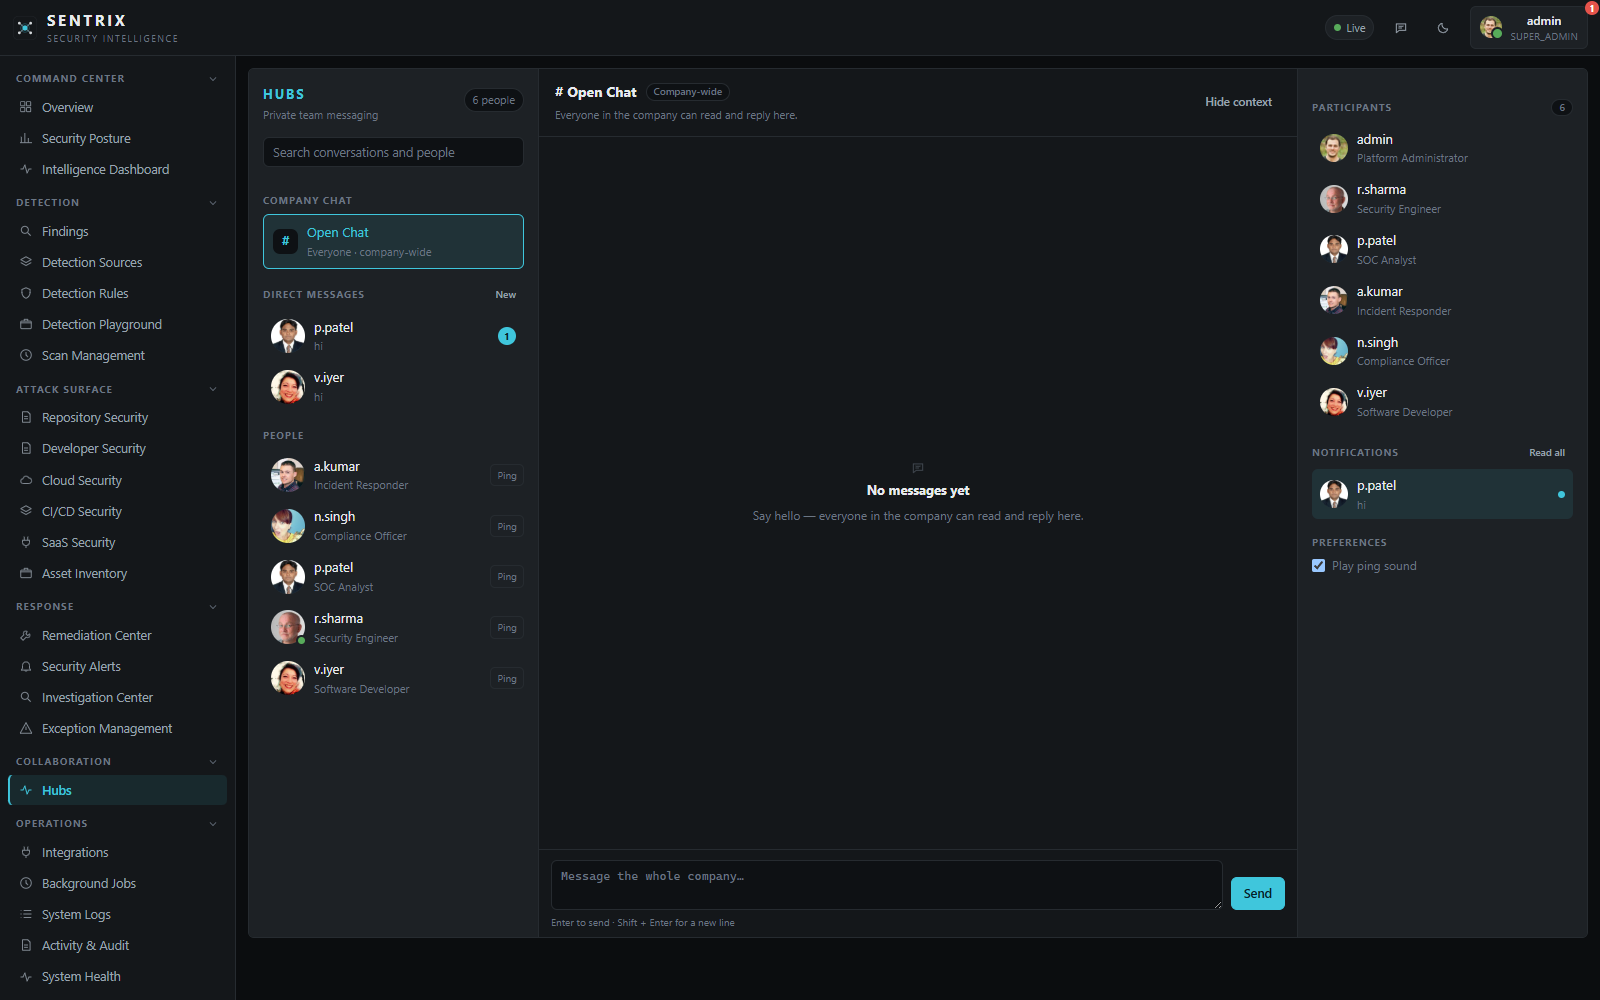
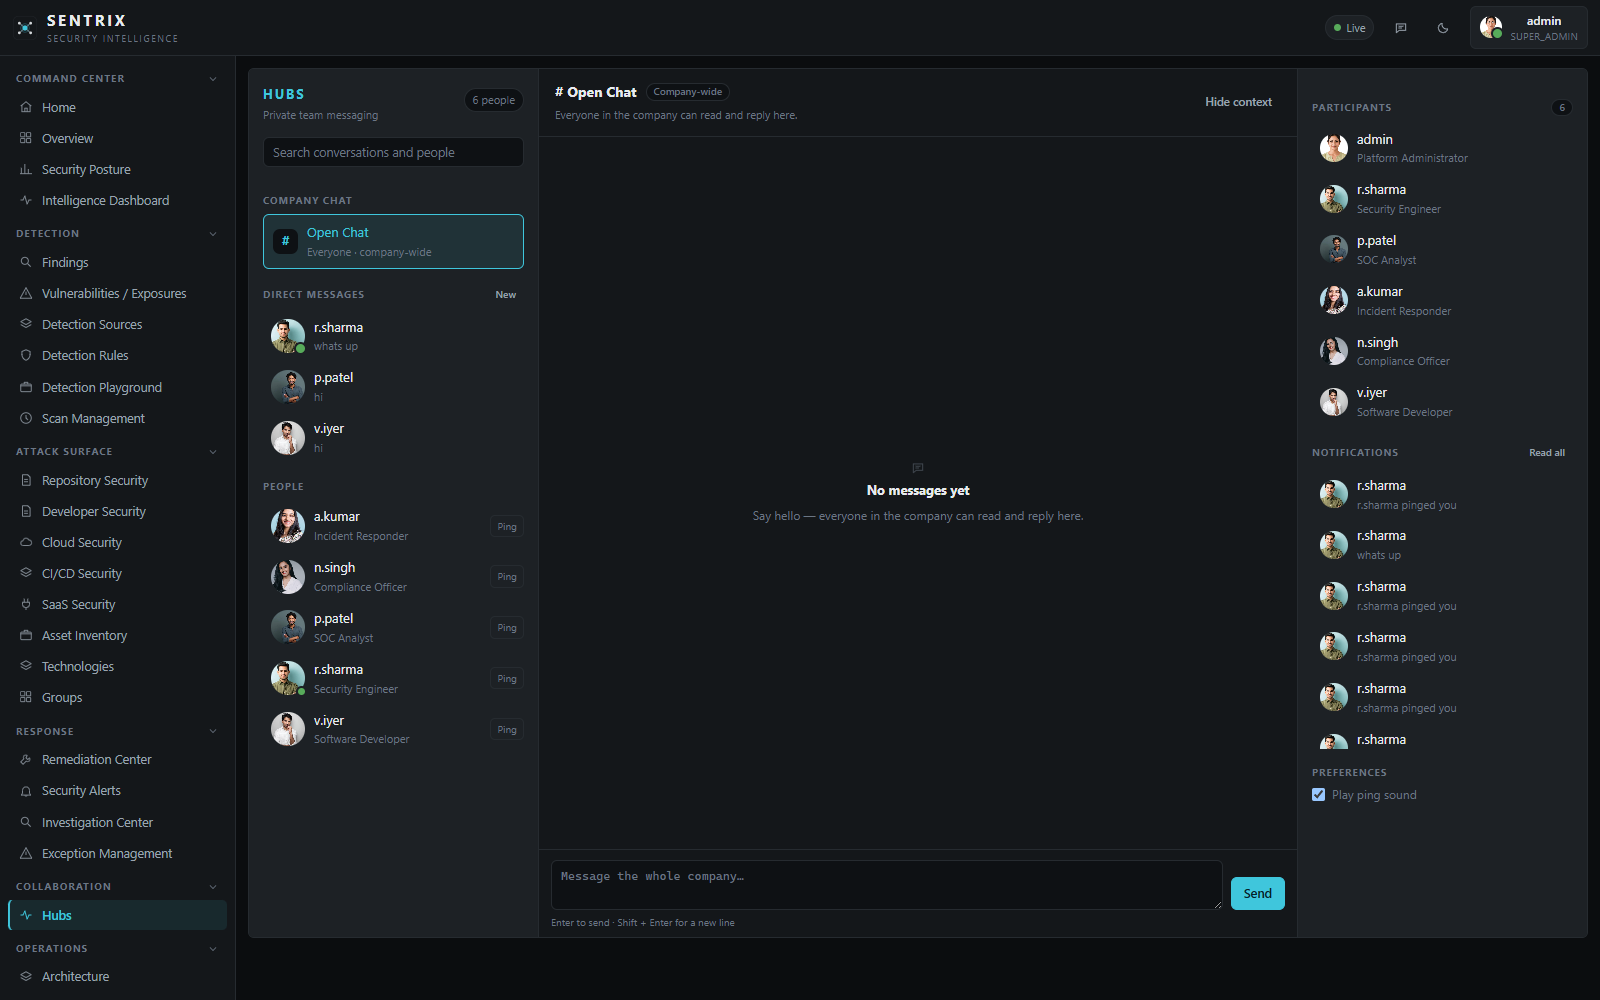
docs: capture fresh screenshots for 5 key views (Home required)
- Regenerate Home, Findings, Detection Sources, Integrations, and Hubs screenshots from running SENTRIX demo (Playwright-core + system browser)
- Update capture script to use playwright-core/system Chrome/Edge fallback
- Add package metadata for screenshot capture tooling

diff --git a/scripts/capture-home-screenshots.js b/scripts/capture-home-screenshots.js
@@ -6,7 +6,7 @@
  *   node scripts/capture-home-screenshots.js
  * Server must be running (default http://127.0.0.1:8710, demo mode).
  */
-const { chromium } = require('playwright');
+const { chromium } = require('playwright-core');
 const path = require('path');
 const BASE = process.env.SENTRIX_URL || 'http://127.0.0.1:8710';
 const USER = process.env.SENTRIX_USER || 'admin';
@@ -14,7 +14,9 @@ const PASS = process.env.SENTRIX_PASS || 'sentrix-demo';
 const out = (n) => path.join(__dirname, '..', 'docs', 'screenshots', n);
 
 (async () => {
-  const browser = await chromium.launch();
+  const paths = ['C:\\Program Files\\Google\\Chrome\\Application\\chrome.exe','C:\\Program Files (x86)\\Microsoft\\Edge\\Application\\msedge.exe'];
+  let browser; for (const executablePath of paths) { try { browser = await chromium.launch({ executablePath }); break; } catch(e){} }
+  if (!browser) browser = await chromium.launch();
   const page = await browser.newPage({ viewport: { width: 1600, height: 1000 } });
   await page.goto(BASE + '/login', { waitUntil: 'networkidle' });
   await page.fill('#username', USER).catch(()=>{});
